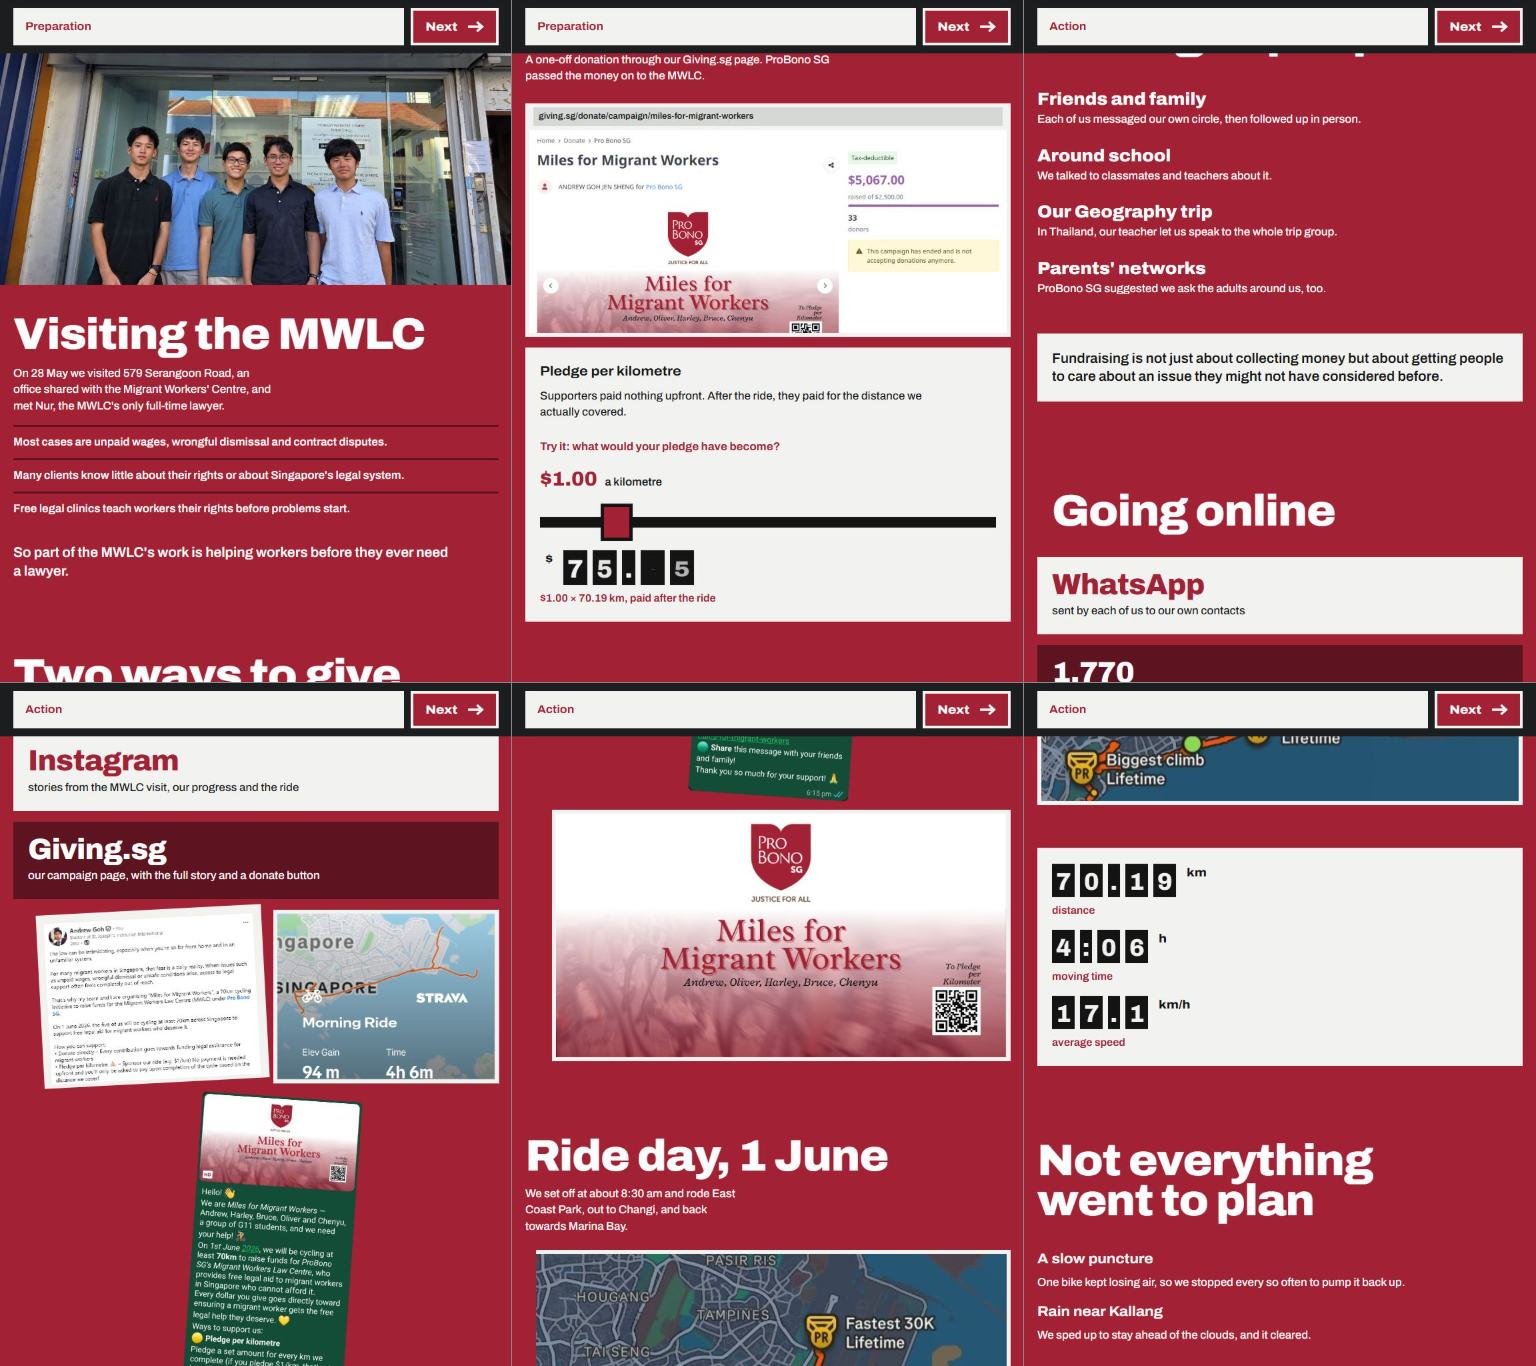
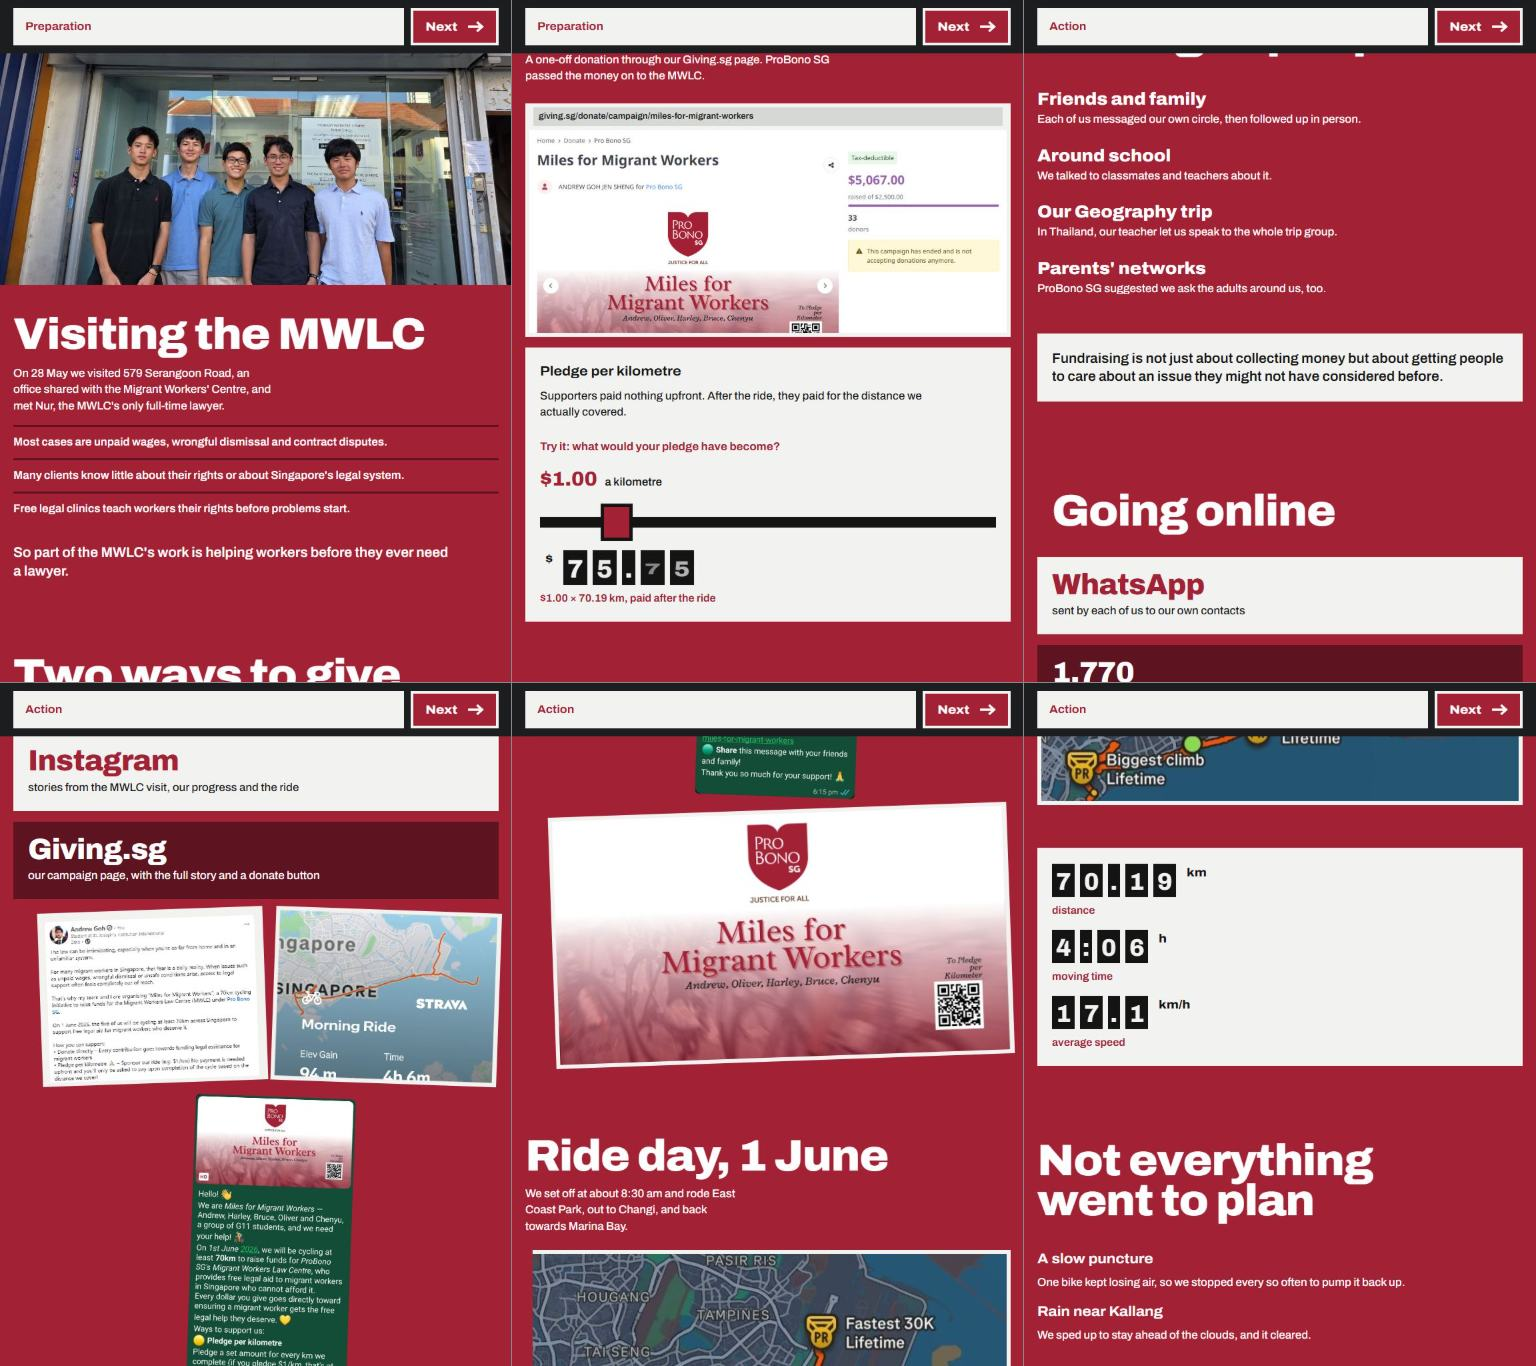
tidy

Changed region(s): [[0.0312, 0.6457, 0.5, 1.0], [0.3438, 0.5227, 0.6875, 0.7994], [0.3438, 0.9224, 0.375, 0.9839]]

diff --git a/src/panels.css b/src/panels.css
@@ -744,22 +744,9 @@
 .board .p-online__word {
   color: var(--color-panel);
 }
-/* the WhatsApp message, cut out of the chat: top right of the pile, its foot just over the banner */
-.p-online__bubble {
-  position: absolute;
-  right: 0;
-  top: 0;
-  height: 38%;
-  aspect-ratio: 778 / 1860;
-  margin: 0;
-  transform: rotate(4deg);
-  z-index: 3;
-}
-.p-online__bubble img {
-  display: block;
-  width: 100%;
-  height: 100%;
-}
+/* the four posts in two tidy columns, sized as shares of the pile so they keep their places at
+   any height: LinkedIn over Strava on the left, the WhatsApp message over the banner on the right.
+   Each tilt is --r, where the paste-in animation ends. */
 .p-online__pile {
   grid-column: 4;
   grid-row: 1 / 4;
@@ -769,35 +756,53 @@
 .p-online__post {
   position: absolute;
   border-width: 10px;
+  transform: rotate(var(--r, 0deg));
 }
 .p-online__post--1 {
-  left: 10px;
+  left: 0;
   top: 0;
-  width: 380px;
-  height: 640px;
-  transform: rotate(-3deg);
+  width: 49%;
+  height: 47%;
 }
 .p-online__post--1 img {
   object-position: top;
 }
 .p-online__post--2 {
+  --r: -2deg;
   right: 0;
-  top: 120px;
-  width: 440px;
-  z-index: 2;
+  top: 67%;
+  width: 48%;
 }
 .p-online__post--2 img {
   height: auto;
 }
 .p-online__post--3 {
-  right: 40px;
-  bottom: 0;
-  width: 360px;
-  height: 460px;
-  z-index: 3;
+  --r: 2deg;
+  left: 2%;
+  top: 51.5%;
+  width: 45%;
+  height: 45.5%;
 }
 .p-online__post--3 img {
-  object-position: 50% 62%;
+  object-position: 50% 60%;
+}
+/* the WhatsApp message, cut out of the chat */
+.p-online__bubble {
+  position: absolute;
+  right: 0;
+  top: 0.5%;
+  width: 45.5%;
+  height: 61.5%;
+  aspect-ratio: 778 / 1860;
+  margin: 0;
+  transform: rotate(var(--r, 0deg));
+}
+.p-online__bubble img {
+  display: block;
+  width: 100%;
+  height: 100%;
+  object-fit: contain;
+  object-position: top right;
 }
 
 /* 10 ride: text column, the route map, the signboard */

diff --git a/src/panels.tsx b/src/panels.tsx
@@ -396,10 +396,10 @@ export function Online({ headingId }: PanelProps) {
         <p className="body">our campaign page, with the full story and a donate button</p>
       </div>
       <div className="p-online__pile">
-        <figure className="paste p-online__post p-online__post--1" data-paste style={{ ...i(0), "--r": "-3deg" } as CSSProperties}>
+        <figure className="paste p-online__post p-online__post--1" data-paste style={{ ...i(0), "--r": "-2deg" } as CSSProperties}>
           <img src={img("linkedin-post.jpg")} alt="Andrew's LinkedIn post launching Miles for Migrant Workers" width={1050} height={1792} />
         </figure>
-        <figure className="p-online__bubble" data-paste style={{ ...i(1), "--r": "4deg" } as CSSProperties}>
+        <figure className="p-online__bubble" data-paste style={{ ...i(1), "--r": "2deg" } as CSSProperties}>
           <img
             src={img("whatsapp-message.webp")}
             alt="The WhatsApp message we sent: who we are, the ride on 1 June, and links to pledge and donate"
@@ -407,7 +407,7 @@ export function Online({ headingId }: PanelProps) {
             height={1860}
           />
         </figure>
-        <figure className="paste p-online__post p-online__post--2" data-paste style={i(1)}>
+        <figure className="paste p-online__post p-online__post--2" data-paste style={i(3)}>
           <img src={img("pledge-banner.jpg")} alt="The pledge banner we shared, with its QR code" width={1014} height={548} />
         </figure>
         <figure className="paste p-online__post p-online__post--3" data-paste style={i(2)}>

diff --git a/src/screen.css b/src/screen.css
@@ -316,30 +316,8 @@
 .page .p-online__cell .body {
   font-size: 32px;
 }
-/* the three posts share the column's height instead of bunching at the top */
 .page .p-online__pile {
   margin-left: 48px;
-}
-.page .p-online__post--1 {
-  left: 0;
-  top: 0;
-  width: 56%;
-  height: 58%;
-}
-/* tilted the other way from the LinkedIn post (the paste-in animation ends on --r) */
-.page .p-online__post--2 {
-  --r: 3deg;
-  right: 0;
-  top: 36%;
-  width: 72%;
-  transform: rotate(3deg);
-}
-.page .p-online__post--3 {
-  left: 18%;
-  right: auto;
-  bottom: 0;
-  width: 46%;
-  height: 40%;
 }
 
 /* ------------------------------ 10 ride ------------------------------ */
